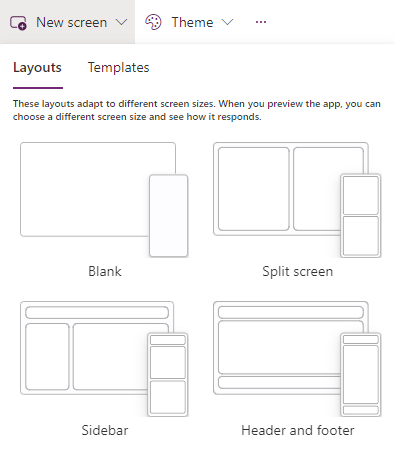
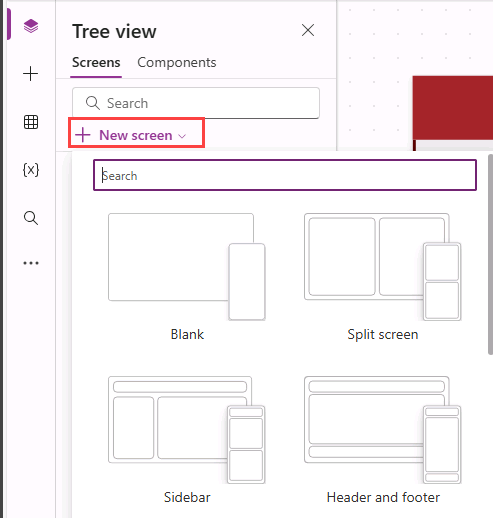
Changes to adding screens to canvas app

diff --git a/Instructions/Labs/LAB[PL-7001]_M06L01_Forms.md b/Instructions/Labs/LAB[PL-7001]_M06L01_Forms.md
@@ -45,12 +45,11 @@ In this lab you will use forms to create and edit records in a data source.
 
 1. Select the **Booking Request app**, select the Commands (**...**), and select **Edit > Edit in new tab**.
 
-
 ### Task 1.2 - Add screens
 
 1. In the app authoring menu, select **Tree view**.
 
-1. In action bar in the Power Apps Studio, select **New screen**.
+1. At the top of the Tree view, select **+ New screen**.
 
     ![Screenshot of new screen.](../media/add-screen.png)
 
@@ -58,12 +57,11 @@ In this lab you will use forms to create and edit records in a data source.
 
 1. Rename the screen to `EditScreen`.
 
-1. In action bar in the Power Apps Studio, select **New screen**.
+1. At the top of the Tree view, select **+ New screen**.
 
 1. Select **Header and footer**.
 
 1. Rename the screen to `DetailScreen`.
-
 
 ### Task 1.3 - Add navigation
 
@@ -91,14 +89,17 @@ In this lab you will use forms to create and edit records in a data source.
     Back()
     ```
 
+1. Rename the icon to `BackIconEdit`.
+
 1. In the **Tree view**, select the icon and select the Commands (**...**) and select **Copy**.
 
 1. Expand **DetailScreen**.
 
 1. Expand **ScreenContainer**.
 
-1. Select **HeaderContainer** and select the Commands (**...**) and select **Paste**.
+1. Select **HeaderContainer** and select the Commands (**...**) and select **Paste** and select **Paste**.
 
+1. Rename the icon to `BackIconDetail`.
 
 ## Exercise 2 – Details screen
 
@@ -122,7 +123,7 @@ In this lab you will use forms to create and edit records in a data source.
 
 1. In the FormViewer's properties, select **Booking Requests** for **Data source**.
 
-1. Select **8 selected** next to **Fields**.
+1. Select **10 selected** next to **Fields**.
 
     ![Screenshot of default form fields.](../media/add-fields-default.png)
 
@@ -212,7 +213,7 @@ In this lab you will use forms to create and edit records in a data source.
 
 1. In the Form's properties, select **Booking Requests** for **Data source**.
 
-1. Select **8 selected** next to **Fields**.
+1. Select **9 selected** next to **Fields**.
 
 1. Add or remove the fields so that they are arranged in following order :
 
